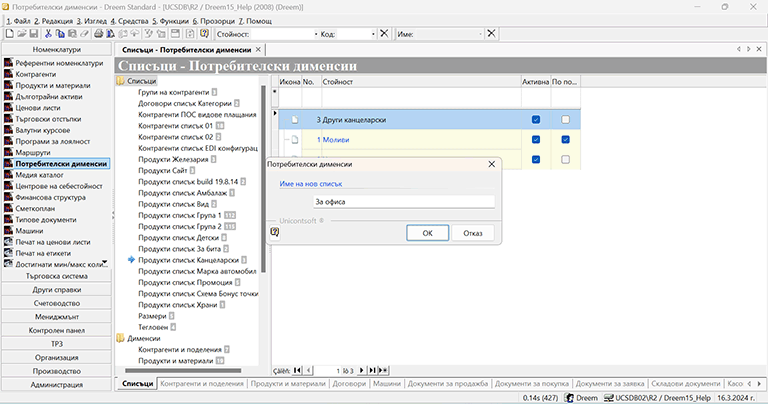
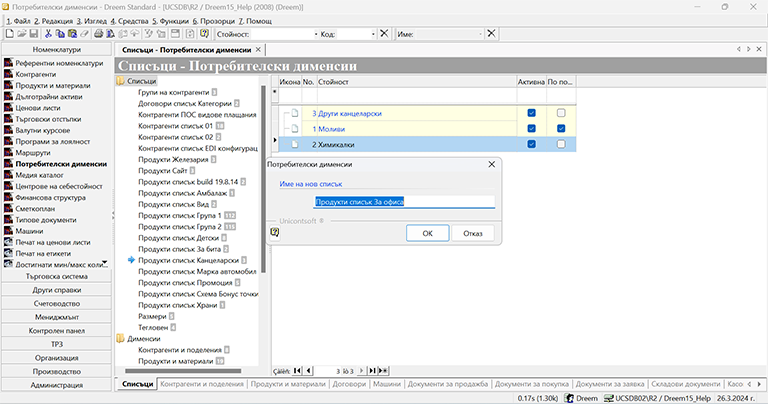
Редакция тема Как да настроим потребителски дименсии

diff --git a/blog/20240318-cms.md b/blog/20240318-cms.md
@@ -4,38 +4,39 @@
 
 # Как да настроим Потребителски дименсии
 
-> CMS
-
 Настройките на *Потребителски дименсии* се изграждат в две стъпки - съставяне на описи в *Списъци* и създаване на *Дименсии*.
 Списъците може да разглеждаме като каталог, съдържащ всички групи продукти, контрагенти, договори и пр.. И за всяка една от тези групировки трябва да укажем как системата да я третира, което ни води до настройка на Дименсии.
-Нека разгледаме пример, в който искаме да създадем нова категория с продукти. Подкатегориите ще базираме спрямо предназначението на продуктите в офиса.
 
-Настройка на Списъци
+Нека разгледаме пример, в който искаме да създадем нов списък с продукти с категория *За офиса*. Подкатегориите в него ще базираме спрямо предназначението на продуктите в офиса.
 
-1.За да създадем нов списък с дименсии, избираме група функции **Номенклатури || Потребителски дименсии**. 
-В лявата част на *Списъци - Потребителски дименсии* се визуализират на две нива папки *Списъци* и *Дименсии* с тяхното съдържание. Позиционирайки се с десен бутон на мишката върху *Списъци*, избираме *Нов списък...*, при което системата отваря прозорец с празно поле. Тук въвеждаме в свободен текст наименование, в нашия случай "За офиса", и с бутон *Ok* го добавяме като нова категория в *Списъци*. 
+Препоръчваме в имената на списъците да добавите и за коя номенклатура или тип документ се отнасят. Това ще помогне за по-лесно и бързо ориентиране в целия набор от списъци. Така категорията от нашия пример бихме могли да изпишем като *Продукти списък За офиса*.
+
+## Настройка на Списъци
+
+За да създадем нов списък, избираме група функции **Номенклатури || Потребителски дименсии**. В лявата част на *Списъци - Потребителски дименсии* се визуализират на две нива папки *Списъци* и *Дименсии* с тяхното съдържание. Позиционирайки се с десен бутон на мишката върху *Списъци*, избираме *Нов списък...*, при което системата отваря прозорец с празно поле. Тук въвеждаме в свободен текст наименование, в нашия случай *Продукти списък за За офиса*, и с бутон *Ok* го добавяме като нова категория в *Списъци*. 
 
 ![](20240311-dimensions1.png){ class=align-center }
 
-В резултат, вляво ще се появи ред с новодобавената категория.
+В резултат, вляво ще се появи новодобавеният ред с категория.
 За да запишем промените до момента, може да изберем бутон Запис от лентата с инструменти.
-
-2.Системата автоматично ни позиционира в новата категория, така че продължаваме с добавяне на съдържание в нейния списък. За целта вдясно се появява ред за добавяне на нов запис. В колона *Стойност* изписваме наименованието на първата подкатегория и с бутон *Enter* "сваляме" реда надолу в списъка. По този начин се освобождава редът за добавяне на нов запис и може да продължим с въвеждането на подкатегории.
+Системата автоматично ни е позиционирала в новата категория, така че продължаваме с добавяне на съдържание в нейния списък. Вдясно, в колона *Стойност*, изписваме наименованието на първата подкатегория и с бутон *Enter* "сваляме" реда надолу в списъка. По този начин се освобождава редът за добавяне на нов запис и може да продължим с въвеждането на останалите подкатегории.
 
 ![](20240311-dimensions2.png){ class=align-center }
 
-За да запишем промените, избираме бутон *Запис* от лентата с инструменти, с което съдържанието на списъците е въведено. 
+Записваме промените с бутон *Запис* от лентата с инструменти, с което съдържанието на списъците е въведено. 
 Във всеки един момент може да редактираме и добавяме нови записи, но не и да изтриваме, когато вече сме използвали настройките в системата. 
  
-Настройка на Дименсии
+## Настройка на Дименсии
 
 Настройката е задължителна, т.к. тук обвързваме всеки предварително въведен списък или с конкретен вид номенклатура, или с типове документи. По този начин определяме дали дименсията ще бъде достъпна във формата за редакция на *Продукти* или на *Контрагенти*, както и в съдържащите ги филтри, или ще касае тип документи.
 > Ако даден списък не се разпредели към Продукти и материали, Контрагенти и поделения или тип документ в *Дименсии*, реквизитът няма да е видим в системата.
 
-1.**Дименсия** — за да завършим настройките на категории, навигираме се до папка *Дименсии*, където посочваме *Контрагенти и поделения*, *Продукти и материали* или избран тип документ (*Договори*, *Документи за продажба* и т.н.).
-В нашия случай настройката касае продуктите, затова маркираме *Продукти и материали* и на появилия се вдясно ред за добавяне на нов запис, в колона *Дименсия*, изписваме името на категорията - "Всичко за офиса". Това наименование ще се появява при избор на дименсия в списъци с продукти и във филтри.
-2.**Тип** — в тази колона, от системно въведеното меню, избираме вида на дименсията, като е възможно да избираме от следните типове:
-    -  тип **Списък** - този тип дименсия ограничено категоризирането само към една от стойностите на списъка.
+1. **Дименсия** — за да завършим настройките на категории, навигираме се до папка *Дименсии*, където посочваме *Контрагенти и поделения*, *Продукти и материали* или избран тип документ (*Договори*, *Документи за продажба* и т.н.).
+В нашия случай настройката касае продуктите, затова маркираме *Продукти и материали* и на появилия се вдясно ред за добавяне на нов запис, в колона *Дименсия*, изписваме името на категорията - "Всичко за офиса". С това наименование ще виждаме дименсията в списъци с продукти и във филтри.
+2. **Тип** — в тази колона, от системно въведеното меню, избираме вида на дименсията. За целите на нашия пример типът трябва да бъде *Списък*. Така, когато настройваме продукт в категория *Всичко за офиса*, ще трябва да изберем или *Офис обзавеждане*, или *Офис периферия, принтери и аксесоари*, или *Офис консумативи*.
+
+Системата дава възможност да избираме от следните типове:
+    -  тип **Списък** - този тип дименсия ограничава категоризирането само към една от стойностите на списъка.
     -  тип **Текст** - този тип дименсия дава възможност за категоризиране по свободно въведен текст, който може да се настрои в отделни шаблони.
     -  тип **Число** - този тип дименсия дава възможност за категоризиране с числови стойности.
     -  тип **Дата** - този тип дименсия дава възможност за категоризиране по дата.
@@ -44,16 +45,16 @@
     -  тип **Множество** - този тип дименсия допуска категоризирането към повече от една стойност на списъка.
     -  тип **RTF** - този тип дименсия дава възможност за категоризиране по свободно въведен текст - Rich Text Format.
     -  тип **HTML** - този тип дименсия дава възможност към продуктите да се настрои HTML код.
-	-  тип **Медия** 
-За целите на нашия пример, типът трябва да бъде *Списък*.
-3.**Списък стойности** — той се настройва задължително единствено за дименсии от тип *Списък* и *Множество*. Тук ,от опционалното меню, трябва да изберем категория от предварително въведените в *Списъци*.
+	-  тип **Медия** -този тип дименсия дава възможност да се настрои връзка към уебсайт.
+
+3. **Списък стойности** — той се настройва задължително единствено за дименсии от тип *Списък* и *Множество*. Тук ,от опционалното меню, трябва да изберем категория от предварително въведените в *Списъци*.
 Нашият пример изисква в новата дименсия "Всичко за офиса" да укажем, че се прилага списъка "За офиса".
 
 ![](20240311-dimensions3.png){ class=align-center }
 
-4.**Задължителна** — чрез поставяне на отметка в тази колона на реда с избраната дименсия, може да настроим тя да бъде задължителна настройка. При това положение системата няма да позволява записване на нов продукт или редакция на съществуващ такъв, без да се избере стойност за задължителната дименсия.
-5.**Прецизност** — настройката се използва единствено за числов тип дименсии, като указва до кой знак след десетичната запетая да се закръгли числото.
-6.**Описание** — тук за всяка дименсия може да се даде кратко описание, което да служи като помощен текст или друго.
+4. **Задължителна** — чрез поставяне на отметка в тази колона на реда с избраната дименсия, може да настроим тя да бъде задължителна настройка. При това положение системата няма да позволява записване на нов продукт или редакция на съществуващ такъв, без да се избере стойност за задължителната дименсия.
+5. **Прецизност** — настройката се използва единствено за числов тип дименсии, като указва до кой знак след десетичната запетая да се закръгли числото.
+6. **Описание** — тук за всяка дименсия може да се даде кратко описание, което да служи като помощен текст или друго.
 
 # Използване на дименсиите в Продукти и материали
 

diff --git a/blog/20240311-dimensions.md b/blog/20240311-dimensions.md
@@ -20,4 +20,4 @@
 Чрез дименсии може да посочите, например, как отделните продукти да се позициионират в уебсайта Ви. Така, с лесна настройка в системата, бързо актуализирате данните в свързаните електронни магазини.
 Дименсиите от типовете *Текст* и *Число* позволяват въвеждане съответно на произволно текстово и цифрово съдържание, при типове *Дата* и *Час* се прави избор на дата или задаване на час, а за тип *Да/не* трябва да изберем дали номенклатурата отговаря или не на определен критерий. Тези настройки може да се приложат към един или едновременно към няколко продукта или контрагента.
 
-За да проследите подробно как практически се създават настройките, може да разгледате статията [Настройки на Потребителски дименсии](https://CMS).
+За да проследите подробно как практически се създават настройките, може да разгледате статията [Настройки на Потребителски дименсии](https://docs.unicontsoft.com/blog/20240318-cms.html#).
